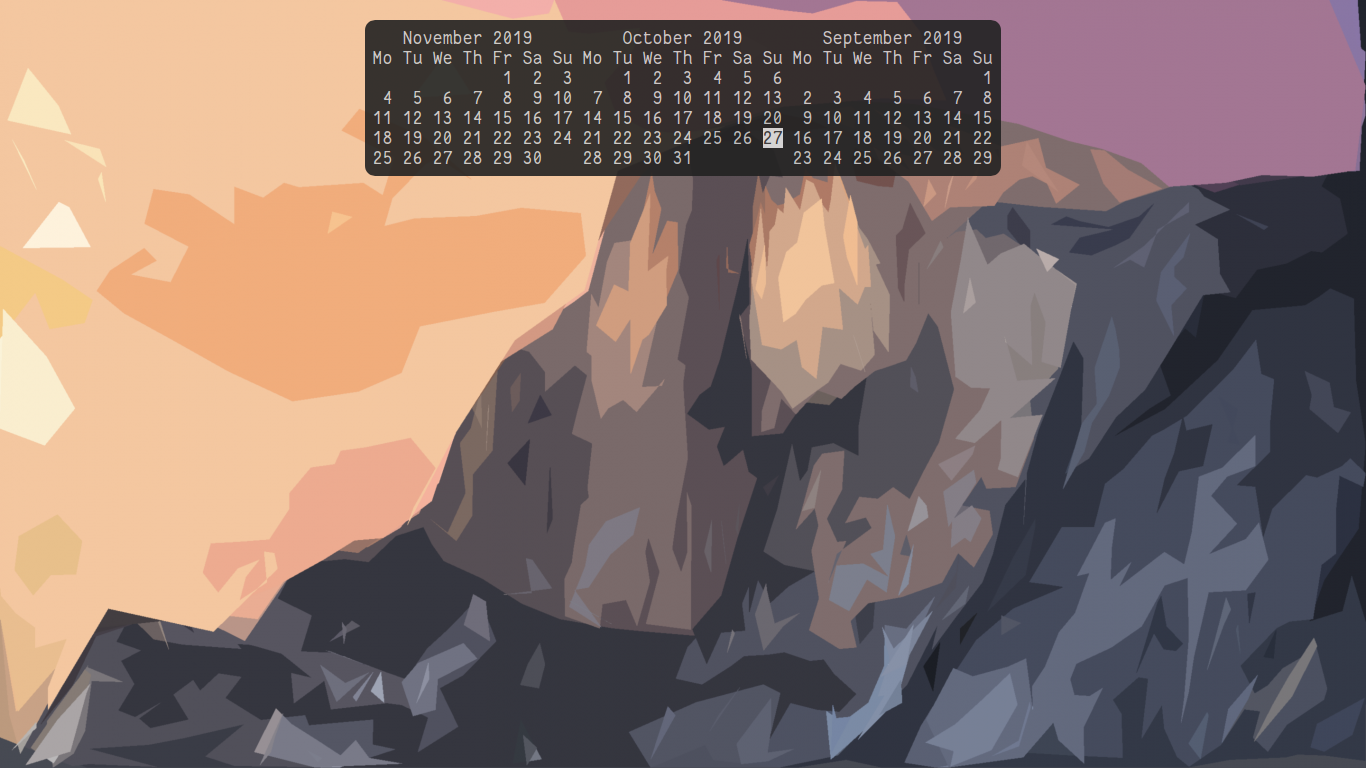
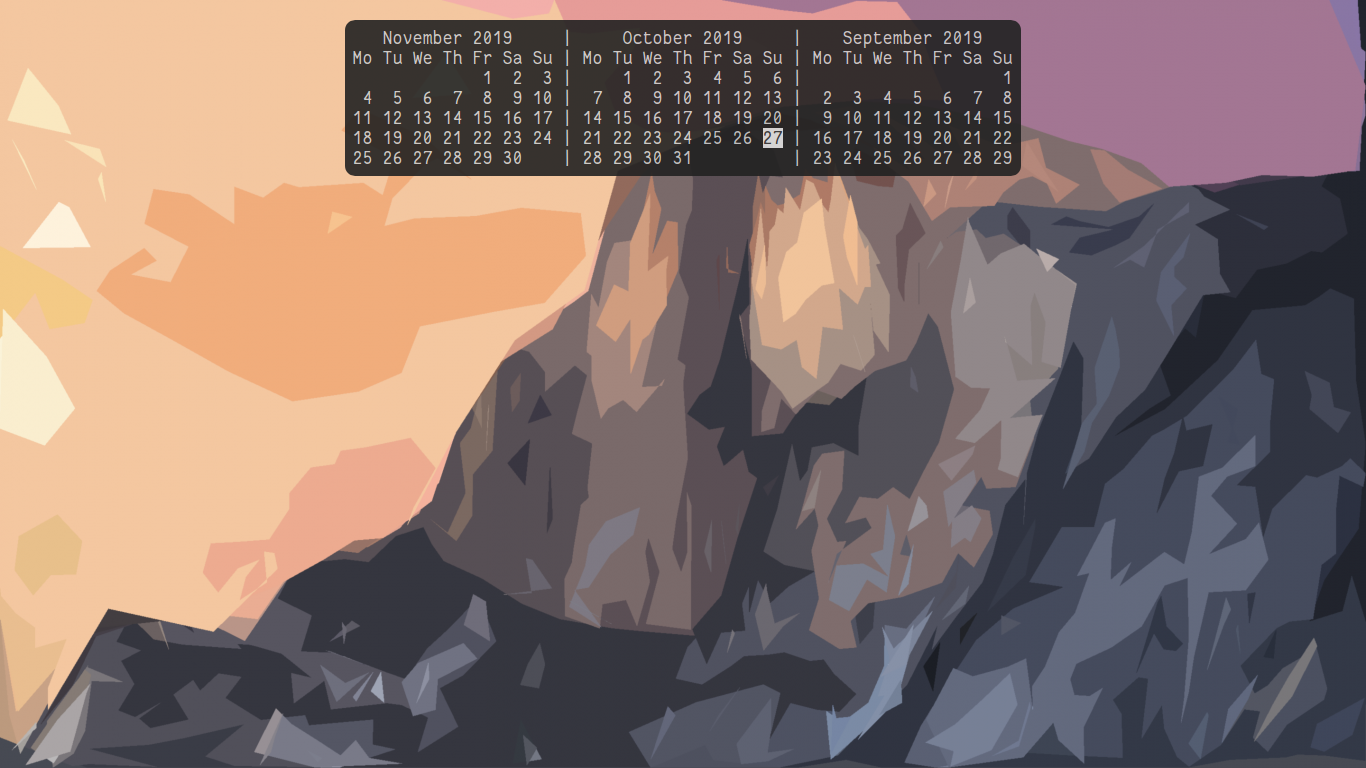
add better separator for 3 month display

Changed region(s): [[0.246, 0.0312, 0.4305, 0.25], [0.5842, 0.0312, 0.7687, 0.2188]]

diff --git a/cal.py b/cal.py
@@ -40,7 +40,7 @@ def join_cals(cals):
     n = len(cals[0])
     combined_lines = []
     for i in range(n):
-        combined_lines.append(" ".join([cal[i] for cal in cals]))
+        combined_lines.append(" | ".join([cal[i] for cal in cals]))
 
     cals = "\n".join(combined_lines)
     return cals
